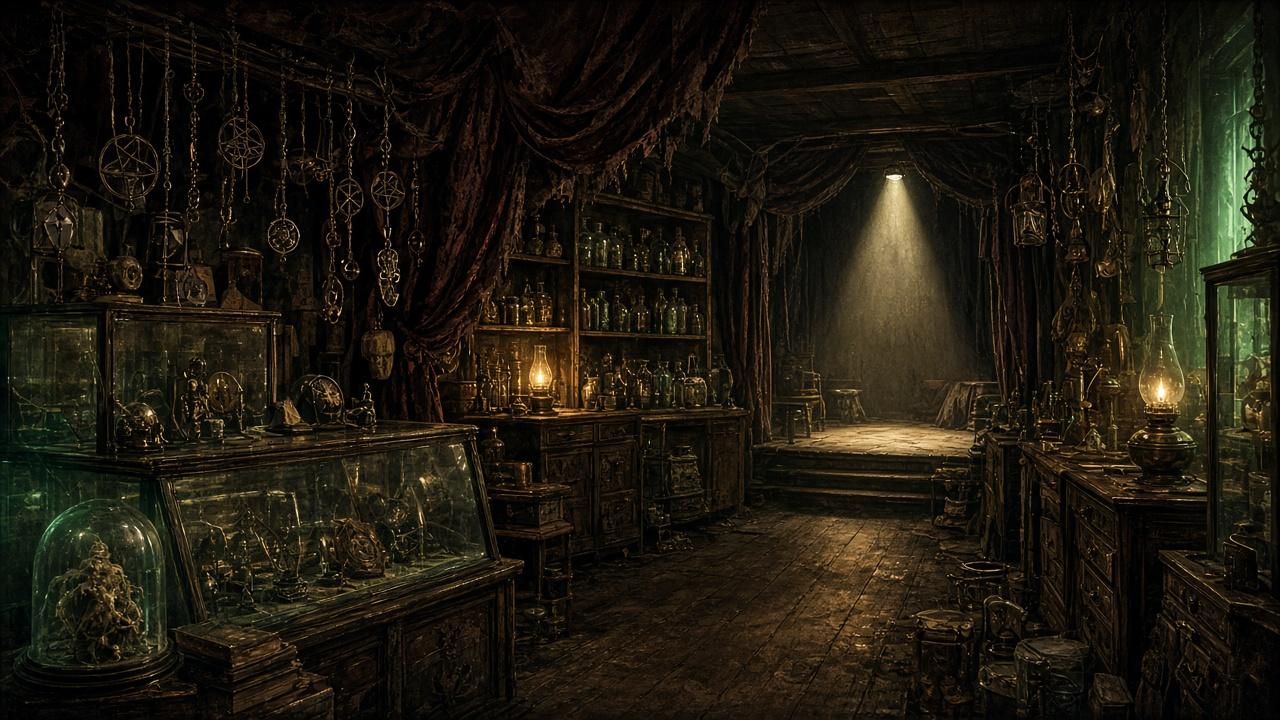
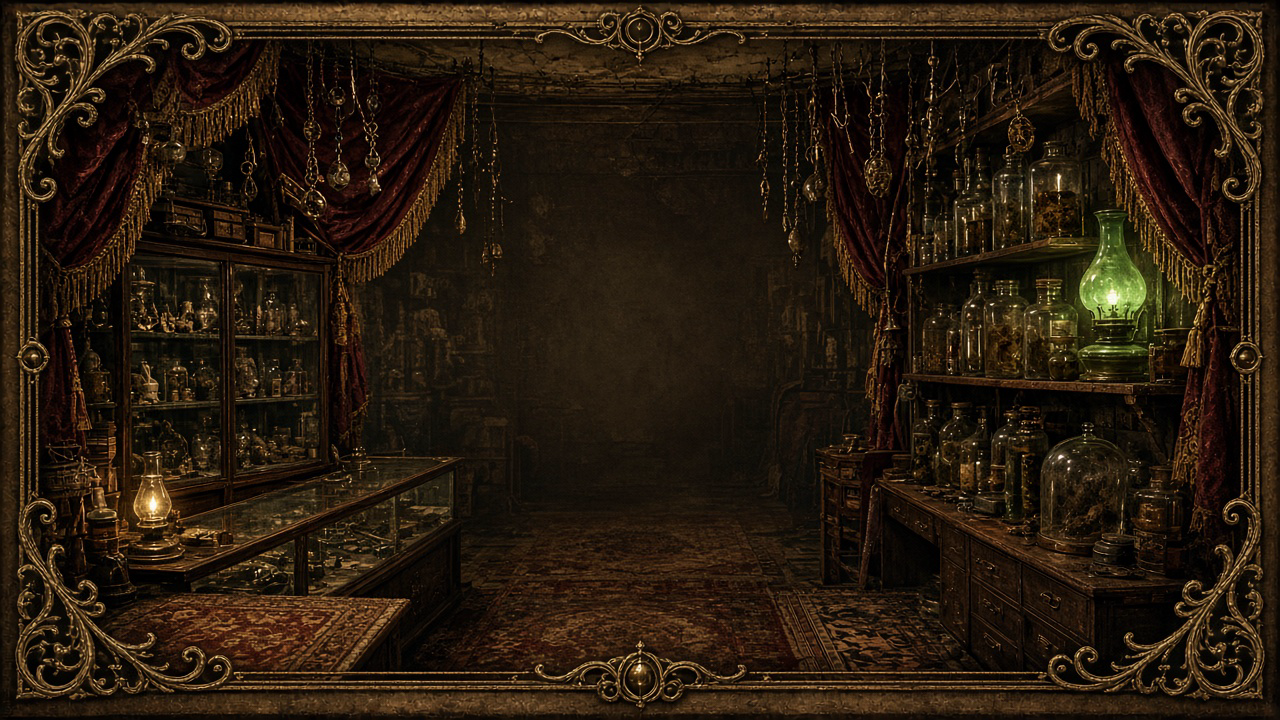
Restyle Bizarre Bazaar intro to Cabals occult card art.
Warm tobacco veil, parchment/bronze card chrome, cream-amber type, and colored host portrait over the new sepia shop interior.

diff --git a/src/App.css b/src/App.css
@@ -3037,7 +3037,7 @@ html, body, #root {
 }
 
 
-/* —— Kern's Bizarre Bazaar cold-open (B&W Serling vibe) —— */
+/* —— Kern's Bizarre Bazaar cold-open (Cabals occult card art) —— */
 .bazaar-intro {
   position: fixed;
   inset: 0;
@@ -3046,10 +3046,10 @@ html, body, #root {
   align-items: center;
   justify-content: center;
   padding: 16px;
-  background: #050505;
+  background: #120c08;
 }
 .bazaar-intro-fallback {
-  background: linear-gradient(180deg, #1a1510 0%, #0a0806 45%, #050505 100%);
+  background: linear-gradient(180deg, #2a1a12 0%, #140e0a 45%, #0a0705 100%);
 }
 .bazaar-bg-img {
   position: absolute;
@@ -3059,6 +3059,7 @@ html, body, #root {
   object-fit: cover;
   z-index: 0;
   pointer-events: none;
+  filter: sepia(0.12) contrast(1.05) saturate(1.05) brightness(0.92);
 }
 .bazaar-skip-always {
   position: absolute;
@@ -3069,32 +3070,48 @@ html, body, #root {
   font-size: 11px;
   letter-spacing: 0.1em;
   padding: 8px 12px;
+  border-color: rgba(180, 140, 70, 0.65) !important;
+  color: #e8d4a8 !important;
+  background: rgba(28, 18, 10, 0.72);
+  box-shadow: 0 0 12px rgba(160, 100, 40, 0.18);
+}
+.bazaar-skip-always:hover,
+.bazaar-skip-always:focus-visible {
+  border-color: rgba(212, 175, 55, 0.9) !important;
+  color: #f5e6c0 !important;
+  background: rgba(40, 26, 14, 0.85);
 }
 .bazaar-veil {
   position: absolute;
   inset: 0;
   z-index: 1;
   background:
-    linear-gradient(180deg, rgba(0,0,0,0.55) 0%, rgba(0,0,0,0.72) 45%, rgba(0,0,0,0.88) 100%),
-    radial-gradient(ellipse at 50% 30%, rgba(80,80,80,0.18), transparent 55%),
-    radial-gradient(ellipse at center, rgba(20,20,20,0.35), rgba(0,0,0,0.78));
+    linear-gradient(180deg,
+      rgba(40, 18, 10, 0.28) 0%,
+      rgba(55, 22, 12, 0.22) 35%,
+      rgba(28, 12, 8, 0.38) 70%,
+      rgba(12, 6, 4, 0.55) 100%),
+    radial-gradient(ellipse at 18% 42%, rgba(180, 90, 30, 0.18), transparent 42%),
+    radial-gradient(ellipse at 82% 38%, rgba(40, 120, 70, 0.12), transparent 40%),
+    radial-gradient(ellipse at 50% 28%, rgba(90, 45, 22, 0.2), transparent 55%),
+    radial-gradient(ellipse at center, transparent 42%, rgba(20, 8, 4, 0.35) 100%);
   pointer-events: none;
 }
 .bazaar-grain {
   position: absolute;
   inset: 0;
   z-index: 1;
-  opacity: 0.12;
+  opacity: 0.1;
   pointer-events: none;
   background-image:
     repeating-linear-gradient(
       0deg,
       transparent,
       transparent 2px,
-      rgba(255,255,255,0.03) 2px,
-      rgba(255,255,255,0.03) 4px
+      rgba(210, 170, 110, 0.04) 2px,
+      rgba(210, 170, 110, 0.04) 4px
     );
-  mix-blend-mode: screen;
+  mix-blend-mode: soft-light;
 }
 .bazaar-card {
   position: relative;
@@ -3102,60 +3119,68 @@ html, body, #root {
   width: min(420px, 94vw);
   max-height: 92vh;
   overflow: auto;
-  background: linear-gradient(180deg, #1a1a1a, #0a0a0a);
-  border: 1px solid #6a6a6a;
+  background:
+    linear-gradient(165deg, rgba(58, 42, 26, 0.92) 0%, rgba(32, 22, 14, 0.94) 45%, rgba(18, 12, 8, 0.96) 100%);
+  border: 2px solid #a67c3a;
+  border-image: none;
   padding: 22px 18px 20px;
-  box-shadow: 0 20px 60px rgba(0,0,0,0.75);
-  filter: grayscale(0.85) contrast(1.05);
-  color: #d0d0d0;
+  box-shadow:
+    0 0 0 1px rgba(212, 175, 55, 0.35),
+    0 0 24px rgba(160, 100, 40, 0.28),
+    0 22px 56px rgba(0, 0, 0, 0.7),
+    inset 0 1px 0 rgba(232, 210, 160, 0.18),
+    inset 0 0 48px rgba(80, 40, 16, 0.25);
+  color: #e8dcc0;
 }
 .bazaar-kicker {
   font: 10px/1 "Courier New", monospace;
   letter-spacing: 0.22em;
-  color: #9a9a9a;
+  color: #c4a070;
   text-align: center;
   margin: 0 0 4px;
+  text-shadow: 0 0 12px rgba(180, 120, 50, 0.25);
 }
 .bazaar-subtitle {
   font: italic 11px/1.3 Georgia, serif;
-  color: #7a7a7a;
+  color: #b8a888;
   text-align: center;
   margin: 0 0 14px;
 }
 .bazaar-portrait-slot {
   margin: 0 auto 16px;
-  filter: grayscale(1) contrast(1.1);
 }
 .bazaar-portrait-slot .portrait-nameplate {
-  color: #c8c8c8;
+  color: #e8dcc0;
 }
 .bazaar-portrait-slot .portrait-kicker {
-  color: #888;
+  color: #a89070;
 }
 .bazaar-line {
-  color: #d4d4d4;
+  color: #e0d4b8;
   font: 14px/1.6 Georgia, "Times New Roman", serif;
   margin: 0 0 12px;
 }
 .bazaar-line.dim {
-  color: #8e8e8e;
+  color: #a89878;
   font-size: 13px;
 }
 .bazaar-line.emphasis {
-  color: #f0f0f0;
+  color: #f5e6c0;
   font-weight: 600;
   font-size: 15px;
   text-align: center;
   margin: 16px 0;
+  text-shadow: 0 0 14px rgba(200, 150, 70, 0.22);
 }
 .bazaar-line em {
   font-style: italic;
-  color: #ececec;
+  color: #f0e4c4;
 }
 .bazaar-line.serling-signoff {
   text-align: right;
   font-style: italic;
   margin-top: 8px;
+  color: #c8b890;
 }
 .bazaar-choices {
   display: flex;
@@ -3165,21 +3190,29 @@ html, body, #root {
 }
 .bazaar-btn {
   width: 100%;
-  filter: grayscale(0.4);
 }
 .bazaar-card .btn.capture-btn {
-  background: #2a2a2a;
-  border-color: #8a8a8a;
-  color: #f2f2f2;
+  background: linear-gradient(180deg, #3a2a18, #24180e);
+  border-color: #c4a050;
+  color: #f5e6c0;
+  box-shadow: 0 0 14px rgba(160, 100, 40, 0.2);
 }
 .bazaar-card .btn.capture-btn:hover,
 .bazaar-card .btn.capture-btn:focus-visible {
-  background: #3a3a3a;
-  border-color: #b0b0b0;
+  background: linear-gradient(180deg, #4a3520, #2e1e12);
+  border-color: #d4af37;
+  color: #fff6dc;
+  box-shadow: 0 0 18px rgba(200, 140, 50, 0.35);
 }
 .bazaar-card .btn.ghost-btn {
-  border-color: #666;
-  color: #bbb;
+  border-color: rgba(180, 140, 70, 0.55);
+  color: #d4c4a0;
+  background: rgba(28, 18, 10, 0.55);
+}
+.bazaar-card .btn.ghost-btn:hover,
+.bazaar-card .btn.ghost-btn:focus-visible {
+  border-color: rgba(212, 175, 55, 0.8);
+  color: #e8dcc0;
 }
 
 
@@ -3189,13 +3222,15 @@ html, body, #root {
   letter-spacing: 0.28em;
   font-size: 22px !important;
   margin: 28px 0 !important;
+  color: #f5e6c0;
 }
 .bazaar-smile-end-title {
   font: 600 28px/1.15 Georgia, "Times New Roman", serif;
   letter-spacing: 0.12em;
   text-align: center;
-  color: #f2f2f2;
+  color: #f5e6c0;
   margin: 12px 0 8px;
+  text-shadow: 0 0 18px rgba(200, 150, 70, 0.3);
 }
 .bazaar-shutter-flash {
   position: absolute;
@@ -3206,7 +3241,7 @@ html, body, #root {
   animation: bazaar-shutter-white 0.9s ease-out forwards;
 }
 .bazaar-smile.bazaar-smile-flashing .bazaar-card {
-  filter: grayscale(1) contrast(1.2) brightness(1.35);
+  filter: contrast(1.15) brightness(1.35) sepia(0.15);
 }
 @keyframes bazaar-shutter-white {
   0% { opacity: 0; }
